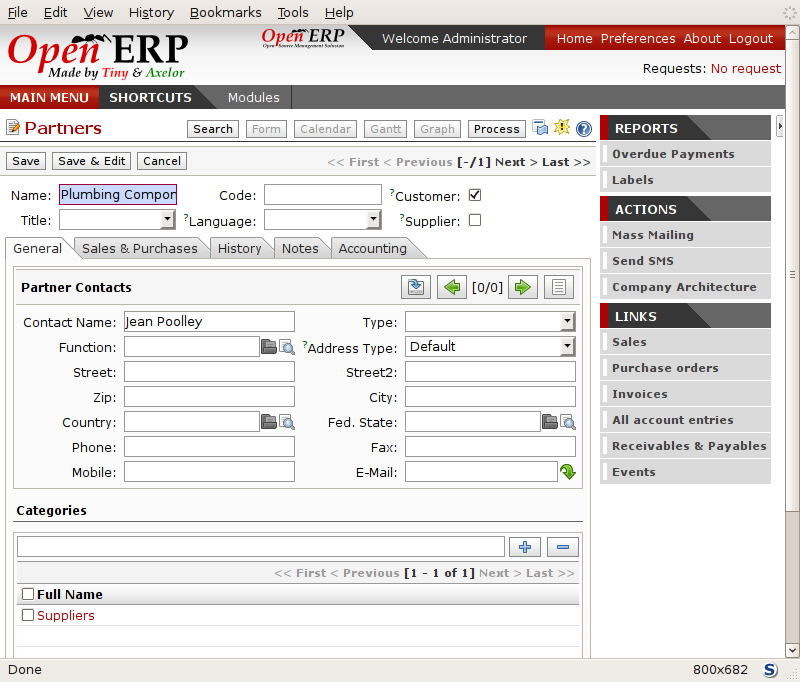
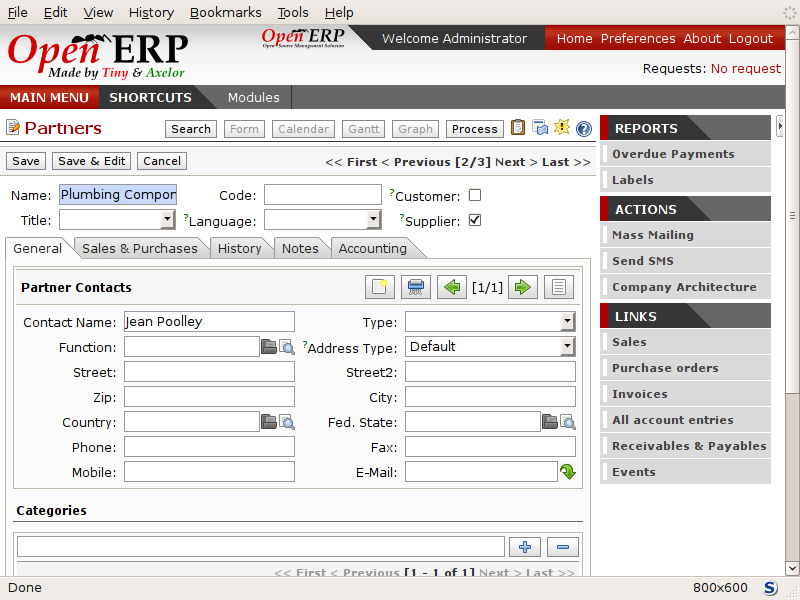
More addition to Ch3.

diff --git a/source/book/1/1_3_Real_Case/1_3_Real_Case_testing_wf.rst b/source/book/1/1_3_Real_Case/1_3_Real_Case_testing_wf.rst
@@ -1,6 +1,4 @@
 
-.. todo:: Got HERE
-
 Testing a Purchase-Sale workflow
 ================================
 
@@ -32,57 +30,55 @@ Purchase Order
 --------------
 
 To place a Purchase Order with your supplier, use the menu :menuselection:`Purchase Management -->
-Purchase Order` for a new Purchase Order form.
+New Purchase Order` for a new Purchase Order form.
 
-Complete the following fields:
-
-*  :guilabel:`Warehouse` : \ ``Warehouse``\  . Although this is not a required field, the selection
-   here automatically fills in the required field :guilabel:`Delivery Destination` on the :guilabel:`Purchase Shippings`
-   tab.
+Complete the following field:
 
 *  :guilabel:`Partner` : \ ``Plumbing Component Suppliers``\  .
 
 As you complete the :guilabel:`Partner` field, Open ERP automatically completes the
 :guilabel:`Address` field and the :guilabel:`Price List` field from information it takes out of the
-Partner record. Then click on the :guilabel:`Save Parent and Create New Record` icon to the right of
+Partner record. Then click on the :guilabel:`Save Parent Record.` icon to the right of
 the :guilabel:`Order Line` field. This automatically saves the body of the :guilabel:`Purchase
-Order`, and changes to a :guilabel:`Create New Record` icon. Click that to open the
+Order`, and changes to a :guilabel:`Create New Record.` icon. Click that to open the
 :guilabel:`Purchase Order Line` window.
 
 Enter the following information
 
 *  :guilabel:`Product` : \ ``Titanium Alloy Radiator``\   - type in part of this name then click the
-   :guilabel:`Search / Open a resource:guilabel:` icon at the end of the line to complete it,
+   :guilabel:`Search` icon at the end of the line to complete it,
 
 When you've selected a product on the product line, Open ERP automatically completes the following
 fields from information it finds in the Product record:
 
-*  :guilabel:`Product UOM` : the unit of measure for this product,
+* :guilabel:`Product UOM` : the unit of measure for this product,
 
-*  :guilabel:`Description` : the detailed description of the product,
+* :guilabel:`Description` : the detailed description of the product,
 
-*  :guilabel:`Scheduled date` : based on the product lead time,
+* :guilabel:`Scheduled date` : based on the product lead time,
 
-*  :guilabel:`Unit price` : the unit price of the product,
+* :guilabel:`Unit price` : the unit price of the product,
 
-*  :guilabel:`Analytic account` : if any account is specified then it will appear on the order line,
+* :guilabel:`Analytic account` : if any account is specified then it will appear on the order line (it's not in this example),
 
-*  :guilabel:`Taxes` : applicable taxes defined in the partner, if specified, otherwise in the
-   product, if specified.
+* :guilabel:`Taxes` : applicable taxes defined in the partner, if specified, otherwise in the
+  product, if specified (there aren't any in this example).
 
 You can edit any of these fields to suit the requirements of the purchase order at the time of
-entry. Change the :guilabel:`Unit Price` to \ ``56.00``\  .
+entry. Change the:
 
-Also enter:
+* :guilabel:`Quantity` : \ ``10``\ ,
 
-*  :guilabel:`Quantity` : \ ``10``\  .
+* :guilabel:`Unit Price` to \ ``56.00``\ .
 
  Save the order line and close the :guilabel:`Purchase Order Line` window by clicking the
  :guilabel:`Close` button. You can then confirm the whole one-line order by clicking
  :guilabel:`Save`, which makes the form non-editable. It's now in a state of \ ``Request for
- Quotation``\  , so click :guilabel:`Confirm Purchase Order`, which corresponds to an approval from
+ Quotation``\ , so click :guilabel:`Confirm Purchase Order`, which corresponds to an approval from
  a manager or from Accounts within your own company and moves the order into \ ``Confirmed``\
  state.
+ 
+.. todo:: Got HERE with non-null journal entry. Needs fixing by changing the procedure.
 
 Finally click :guilabel:`Approved by Supplier` to indicate the supplier's acknowledgment of the
 order. The order becomes \ ``Approved``\  . If you click the :guilabel:`Purchase Shippings` tab

diff --git a/source/book/1/1_3_Real_Case/1_3_Real_Case_db_setup.rst b/source/book/1/1_3_Real_Case/1_3_Real_Case_db_setup.rst
@@ -30,10 +30,12 @@ Expense        expense  5         Positive        Unreconciled    unchecked
 Cash           cash     5         Positive        Balance         unchecked
 ============== ======== ========  =============== =============== ===============
 
+
 .. _fig-oech03accty:
 
 .. figure::  images/openerp_ch03_acctype.png
    :align: center
+   :scale: 80
 
    *New Account Type*
    
@@ -61,10 +63,12 @@ Purchases     P    Others        0 Minimal Chart Expense
 Sales         S    Others        0 Minimal Chart Income
 ============= ==== ============= =============== ============
 
+
 .. _fig-oech03accts:
 
 .. figure::  images/openerp_ch03_accts.png
    :align: center
+   :scale: 80
 
    *New Account*
 
@@ -149,6 +153,7 @@ and you can upload a company logo of a specific size for the reports.
 
 .. figure::  images/openerp_ch03_co.png
    :align: center
+   :scale: 60
 
    *Changing company details*
 
@@ -187,6 +192,10 @@ first:
 
 * :guilabel:`Address Type` : \ ``Default``\  ,
 
+* :guilabel:`Customer` checkbox : \ ``unchecked``\  ,
+
+* :guilabel:`Supplier` checkbox : \ ``checked``\  ,
+
 * add \ ``Suppliers``\   to the :guilabel:`Categories` field by selecting it from the Search List,
 
 * then save the partner by clicking the :guilabel:`Save` button. 
@@ -197,6 +206,7 @@ Figure :ref:`fig-oech03part` shows the result.
 
 .. figure::  images/openerp_03_part.png
    :align: center
+   :scale: 80
 
    *New Partner Form*
 
@@ -212,11 +222,15 @@ Figure :ref:`fig-oech03part` shows the result.
 
 For the second partner, proceed just as you did for the first, with the following data:
 
-*  :guilabel:`Name` : \ ``Smith and Offspring``\  ,
+* :guilabel:`Name` : \ ``Smith and Offspring``\ ,
 
-*  :guilabel:`Contact Name` : \ ``Stephen Smith``\  ,
+* :guilabel:`Contact Name` : \ ``Stephen Smith``\ ,
 
-*  :guilabel:`Address Type` : \ ``Default``\  .
+* :guilabel:`Address Type` : \ ``Default``\ ,
+
+* :guilabel:`Customer` checkbox : \ ``checked``\ ,
+
+* :guilabel:`Supplier` checkbox : \ ``unchecked``\ .
 
 Then add \ ``Customers``\   in the :guilabel:`Categories` field. :guilabel:`Save` the form. To check
 your work you can go to the menu :menuselection:`Partners --> Partner Categories` and click on each
@@ -287,7 +301,7 @@ Now create a new product:
 
         .. figure::  images/product.png
            :align: center
-           :scale: 95
+           :scale: 60
            
            *Product Form*
 
